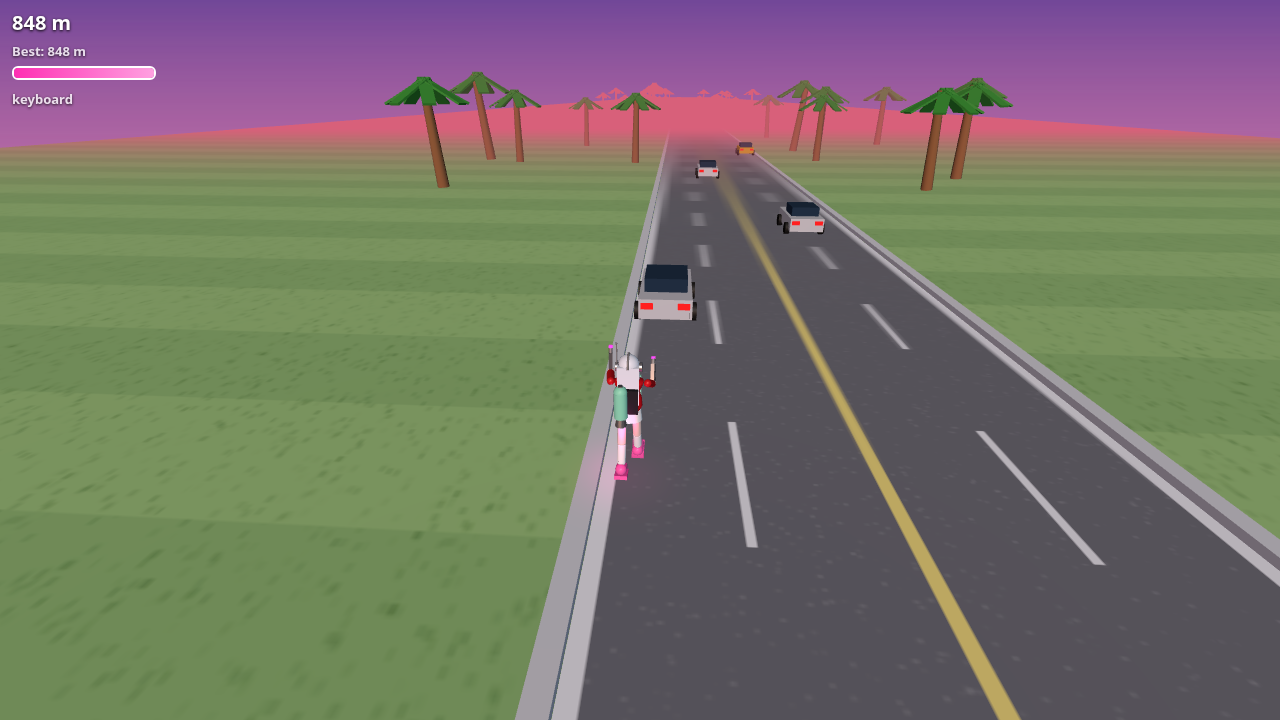
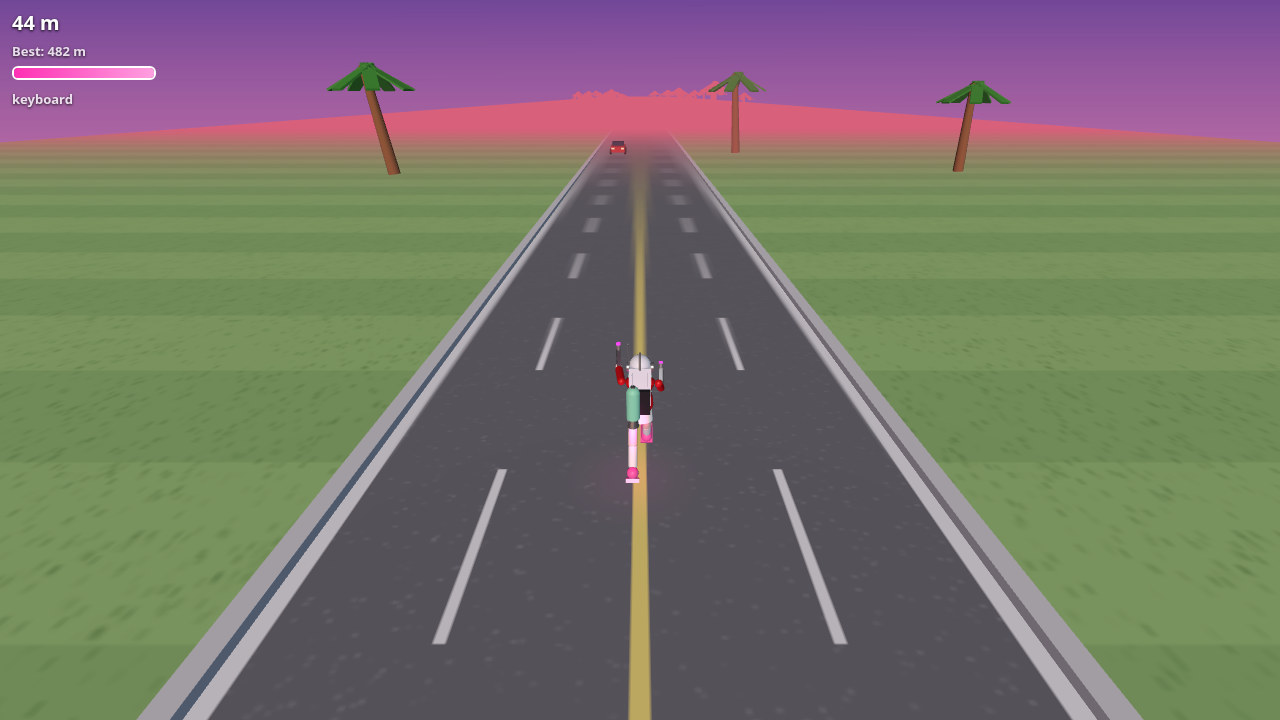
Bigger boost pad (35% jump + surge), +30% speed and obstacles, oncoming freeway traffic, live portal previews, big exit portals for every zone

diff --git a/index.html b/index.html
@@ -26,7 +26,7 @@ canvas{display:block;touch-action:none}
 <div id="over"><h1>Game Over</h1><div id="final"></div><button id="restart">Restart</button><small style="margin-top:8px;opacity:.7">Space / tap to restart</small></div>
 <script type="module">
 import * as THREE from 'three';
-const R=14, BASE=14.4, RAMP=0.5, RAMP_T=10, CAP=200, TURN_RATE=18/R /* ~74deg/s, 18 m/s surface (was 16) */, HOP_H=1.6, THRUST=36, VY_MAX=7.5, FUEL_TIME=1.6, FUEL_REFILL=0.7, MAX_ALT=9, JUMP_H=HOP_H, G=18,
+const R=14, BASE=18.72, RAMP=0.5, RAMP_T=10, CAP=200, TURN_RATE=18/R /* ~74deg/s, 18 m/s surface (was 16) */, HOP_H=1.6, THRUST=36, VY_MAX=7.5, FUEL_TIME=1.6, FUEL_REFILL=0.7, MAX_ALT=9, JUMP_H=HOP_H, G=18,
   V0=Math.sqrt(2*G*JUMP_H), COYOTE=0.12, BUFFER=0.1, CAM_D=10.5, CAM_H=8.5, CAM_FOLLOW=4.5;
 const renderer=new THREE.WebGLRenderer({antialias:true});
 renderer.setPixelRatio(Math.min(devicePixelRatio,2));renderer.setSize(innerWidth,innerHeight);
@@ -142,9 +142,9 @@ document.addEventListener('touchmove',e=>e.preventDefault(),{passive:false});
 document.addEventListener('gesturestart',e=>e.preventDefault());
 document.getElementById('restart').addEventListener('click',()=>reset());
 addEventListener('resize',()=>{camera.aspect=innerWidth/innerHeight;camera.updateProjectionMatrix();renderer.setSize(innerWidth,innerHeight);});
-function spawn(th,ay){const car=st.realm==='freeway';const m=car?makeCar():st.realm==='neon'?new THREE.Mesh(obsGeo,holoMats[Math.random()*2|0]):new THREE.Mesh(obsGeo,obsMat);const o={mesh:m,kind:car?'car':'barrier',theta:th??Math.random()*Math.PI*2,ay:ay??SPAWN_AY(),h:st.rails?RAIL_H:0};if(!car)m.add(new THREE.LineSegments(obsEdges,outlineMat));if(st.flat){o.lx=th==null?LANES[Math.random()*4|0]:Math.max(-FLAT_X,Math.min(FLAT_X,th*R));o.theta=0;}
+function spawn(th,ay){const car=st.realm==='freeway';const m=car?makeCar():st.realm==='neon'?new THREE.Mesh(obsGeo,holoMats[Math.random()*2|0]):new THREE.Mesh(obsGeo,obsMat);const o={mesh:m,kind:car?'car':'barrier',theta:th??Math.random()*Math.PI*2,ay:ay??SPAWN_AY(),h:st.rails?RAIL_H:0};if(!car)m.add(new THREE.LineSegments(obsEdges,outlineMat));if(st.flat){o.v=8+Math.random()*6;if(ay==null)o.ay=SPAWN_AY()*(1+o.v/st.speed);o.lx=th==null?LANES[Math.random()*4|0]:Math.max(-FLAT_X,Math.min(FLAT_X,th*R));o.theta=0;}
  scene.add(m);obstacles.push(o);placeObs(o);return st.flat?o.lx/R:o.theta;}
-function placeObs(o){if(o.lx!==undefined){o.mesh.position.set(o.lx,o.ay,R);o.mesh.rotation.set(0,0,0);return;}const r=(o.kind==='car'?R:R+OBS_HALF.r)+(o.h||0);o.mesh.position.set(Math.sin(o.theta)*r,o.ay,Math.cos(o.theta)*r);o.mesh.rotation.set(0,o.theta,0);}
+function placeObs(o){if(o.lx!==undefined){o.mesh.position.set(o.lx,o.ay,R);o.mesh.rotation.set(0,0,Math.PI);return;}const r=(o.kind==='car'?R:R+OBS_HALF.r)+(o.h||0);o.mesh.position.set(Math.sin(o.theta)*r,o.ay,Math.cos(o.theta)*r);o.mesh.rotation.set(0,o.theta,0);}
 function angDiff(a,b){let d=a-b;d=Math.atan2(Math.sin(d),Math.cos(d));return d;}
 function collide(o){if(o.kind==='car'){return (o.lx!==undefined?Math.abs(o.lx-st.lx):Math.abs(angDiff(o.theta,st.theta))*R)<VIC_HALF.x+CAR.w/2&&Math.abs(o.ay)<VIC_HALF.z+CAR.l/2&&st.y<CAR.h;}
  if(!st.grounded||st.side!=='out')return false; // spec: collision only while not airborne
@@ -155,7 +155,7 @@ function gameOver(by){st.over=true;st.killedBy=by||'barrier';const m=Math.floor(
 
 // ---------- Boost pad ----------
 const surf=(th,h,ay,v=new THREE.Vector3())=>v.set(Math.sin(th)*(R+h),ay,Math.cos(th)*(R+h));
-const BOOST_T=30, PAD_W=3.2, PAD_L=6; // 30s = 20% of the 150s ramp
+const BOOST_T=52.5, BOOST_FX=4, PAD_W=4, PAD_L=15; // 52.5s = 35% of the 150s ramp, plus a 4s decaying surge
 const padTex=(()=>{const c=document.createElement('canvas');c.width=128;c.height=256;const x=c.getContext('2d');x.fillStyle='#062a33';x.fillRect(0,0,128,256);
  x.strokeStyle='#3ff';x.lineWidth=8;x.strokeRect(4,4,120,248);x.fillStyle='#7ff';for(let i=0;i<3;i++){const y=40+i*70;x.beginPath();x.moveTo(20,y+40);x.lineTo(64,y);x.lineTo(108,y+40);x.lineTo(108,y+60);x.lineTo(64,y+20);x.lineTo(20,y+60);x.closePath();x.fill();}
  const t=new THREE.CanvasTexture(c);return t;})();
@@ -163,8 +163,8 @@ pad=new THREE.Mesh(new THREE.PlaneGeometry(PAD_W,PAD_L),new THREE.MeshBasicMater
 const padLight=new THREE.PointLight(0x33ffff,8,8);pad.add(padLight);padLight.position.set(0,0,1);
 function placePad(){surf(0,0.07,st.padAy,pad.position);pad.rotation.set(0,0,0);pad.rotation.y=0;pad.rotation.x=0;pad.rotation.order='YXZ';pad.rotation.set(0,0,Math.PI);}
 function updatePad(dt){if(st.padDone)return;st.padAy+=st.speed*dt;placePad();pad.material.opacity=0.75+0.25*Math.sin(st.t*12);
- if(Math.abs(st.padAy)<PAD_L/2+0.3&&st.grounded&&Math.abs(angDiff(0,st.theta))*R<PAD_W/2+0.4){st.padDone=true;st.boosted=true;st.boost=BOOST_T;pad.visible=false;
-  flash();burst(surf(0,.5,0));const w=document.getElementById('warn');w.textContent='⚡ BOOST!';w.style.color='#5ff';w.style.display='block';setTimeout(()=>{w.textContent='☄ METEOR';w.style.color='#ff5040';},900);}
+ if(Math.abs(st.padAy)<PAD_L/2+0.3&&st.grounded&&Math.abs(angDiff(0,st.theta))*R<PAD_W/2+0.4){st.padDone=true;st.boosted=true;st.boost=BOOST_T;st.boostFx=BOOST_FX;pad.visible=false;
+  flash();burst(surf(0,.5,0));const w=document.getElementById('warn');w.textContent='⚡ BOOST!';w.style.color='#5ff';w.style.display='block';setTimeout(()=>{w.style.display='none';w.textContent='☄ METEOR';w.style.color='#ff5040';},2200);}
  else if(st.padAy>PAD_L){st.padDone=true;pad.visible=false;}}
 placePad();
 
@@ -298,10 +298,33 @@ function applyTheme(n){const T=THEMES[n];const off=tubeMat.map.offset.y;tubeMat.
  scene.background=T.bg;scene.fog.color.set(T.fog);hemi.intensity=T.hemi;sun.color.set(T.sun);dimSunM.visible=n==='normal';for(const k in deco)deco[k].visible=k===n;renderer.domElement.style.filter='';}
 const holoMats=[0x22e6ff,0xff2bd6].map(c=>new THREE.MeshStandardMaterial({color:c,emissive:c,emissiveIntensity:1.4,transparent:true,opacity:.6,depthWrite:false}));
 const CAR={w:2.2,l:4.2,h:1.45};const carGeo={body:new THREE.BoxGeometry(CAR.w,CAR.l,0.85),cab:new THREE.BoxGeometry(1.8,2,0.6),wh:new THREE.CylinderGeometry(0.4,0.4,0.3,10),lt:new THREE.BoxGeometry(0.5,0.1,0.25)};
-const carCols=[0xe23b3b,0x2f7de1,0xf2f2f2,0xf5c32c,0x29b36b,0x222222].map(c=>M(c,{roughness:.3,metalness:.4})),glassM=M(0x223344,{roughness:.1}),tireM=M(0x111111),tailM=new THREE.MeshBasicMaterial({color:0xff2020}),headM=new THREE.MeshBasicMaterial({color:0xfff6c0});
+const carCols=[0xe23b3b,0x2f7de1,0xf2f2f2,0xf5c32c,0x29b36b,0x222222].map(c=>M(c,{roughness:.3,metalness:.4})),glassM=M(0x223344,{roughness:.1}),tireM=M(0x111111),tailM=new THREE.MeshBasicMaterial({color:0xff2020}),headM=new THREE.MeshBasicMaterial({color:0xfff6c0}),beamM=new THREE.MeshBasicMaterial({color:0xfff2b0,transparent:true,opacity:.22,blending:THREE.AdditiveBlending,depthWrite:false,fog:false}),beamG=new THREE.ConeGeometry(0.9,5,12,1,true);
 function makeCar(){const g=new THREE.Group();const b=new THREE.Mesh(carGeo.body,carCols[Math.random()*carCols.length|0]);b.position.z=0.75;g.add(b);const c=new THREE.Mesh(carGeo.cab,glassM);c.position.set(0,0.2,1.45);g.add(c);
  for(const x of[-1.15,1.15])for(const y of[-1.3,1.3]){const w=new THREE.Mesh(carGeo.wh,tireM);w.rotation.z=Math.PI/2;w.position.set(x,y,0.4);g.add(w);}
- for(const x of[-.75,.75]){const t=new THREE.Mesh(carGeo.lt,tailM);t.position.set(x,CAR.l/2+0.02,0.9);g.add(t);const h=new THREE.Mesh(carGeo.lt,headM);h.position.set(x,-CAR.l/2-0.02,0.9);g.add(h);}return g;}
+ for(const x of[-.75,.75]){const t=new THREE.Mesh(carGeo.lt,tailM);t.position.set(x,CAR.l/2+0.02,0.9);g.add(t);const h=new THREE.Mesh(carGeo.lt,headM);h.position.set(x,-CAR.l/2-0.02,0.9);g.add(h);const bm=new THREE.Mesh(beamG,beamM);bm.position.set(x,-CAR.l/2-2.5,0.8);g.add(bm);}return g;}
+// ---- portal previews: animated window into each zone ----
+const PK={sunlit:0,neon:1,glitch:2,freeway:3,route:4};
+function previewMat(k,ring){return new THREE.ShaderMaterial({uniforms:{uT:{value:0},uK:{value:k},uR:{value:ring?1:0}},transparent:true,depthWrite:false,side:THREE.DoubleSide,
+ vertexShader:'varying vec2 vU;varying vec3 vP;void main(){vU=uv;vP=position;gl_Position=projectionMatrix*modelViewMatrix*vec4(position,1.0);}',
+ fragmentShader:`uniform float uT;uniform int uK;uniform float uR;varying vec2 vU;varying vec3 vP;
+ float h1(vec2 p){return fract(sin(dot(p,vec2(12.9898,78.233)))*43758.5453);}
+ vec3 hue(float h){return clamp(abs(mod(h*6.0+vec3(0,4,2),6.0)-3.0)-1.0,0.0,1.0);}
+ void main(){vec2 p=vU*2.0-1.0;if(uR>0.5){float a=atan(vP.y,vP.x);p=vec2(fract(a*1.6)*2.0-1.0,(length(vP.xy)-${(R+2.3).toFixed(2)})/2.2);}
+  vec3 c;float r=length(p);
+  if(uK==0){c=mix(vec3(1.0,.5,.25),vec3(1.0,.88,.55),clamp(p.y*.6+.5,0.,1.));float s=length(p-vec2(0.,.25));c+=0.12*sin(atan(p.y-.25,p.x)*14.+uT*2.)*smoothstep(.9,.3,s);c=mix(vec3(1.,1.,.85),c,smoothstep(.2,.24,s));
+   if(p.y<-.1){float z=.3/(-p.y+.05);c=mix(vec3(.95,.72,.35),vec3(.75,.5,.2),step(.5,fract(z+uT*1.5)))*(.7+.3*(-p.y));}}
+  else if(uK==1){c=mix(vec3(.25,0.,.35),vec3(.03,0.,.08),clamp(p.y,0.,1.));if(p.y<.05){float z=.35/(.08-p.y);float gx=abs(fract(p.x*z*1.5)-.5),gz=abs(fract(z-uT*2.)-.5);
+   c+=vec3(1.,.2,.85)*smoothstep(.44,.5,gx)+vec3(.15,.9,1.)*smoothstep(.42,.5,gz);}
+   for(int i=-1;i<=1;i++){float x=float(i)*(.2+(-p.y)*.6);c+=vec3(.5,1.,1.)*smoothstep(.02,0.,abs(p.x-x))*step(p.y,.05);}}
+  else if(uK==2){float a=atan(p.y,p.x);float s=sin(a*7.+log(r+.001)*16.+uT*9.);c=hue(fract(log(r+.001)*.6+uT*.15))*(smoothstep(-.2,.2,s)*.8+.2);}
+  else if(uK==3){c=mix(vec3(1.,.45,.3),vec3(.55,.25,.6),clamp(p.y*1.4,0.,1.));c=mix(vec3(1.,.85,.4),c,smoothstep(.16,.2,length(p-vec2(0.,.2))));
+   if(p.y<0.){c=vec3(.3,.6,.2);float w=.06+(-p.y)*.75;if(abs(p.x)<w){c=vec3(.18);float z=.25/(-p.y+.03);if(abs(p.x)<.006+(-p.y)*.02&&fract(z+uT*2.5)<.5)c=vec3(1.,.85,.2);}}
+   for(int i=0;i<4;i++){float fi=float(i);for(int sgn=0;sgn<2;sgn++){float x=(sgn==0?-1.:1.)*(.45+fi*.14);float yb=-.05-fi*.08;
+    if(abs(p.x-x)<.012&&p.y>yb&&p.y<yb+.4)c=vec3(.15,.06,.1);if(length((p-vec2(x,yb+.42))*vec2(1.,2.2))<.09)c=vec3(.1,.25,.08);}}}
+  else{float a=atan(p.y,p.x);float cell=floor(a*12.);float lr=log(r+.001)*3.+uT*2.;c=vec3(.03,.03,.12)+vec3(.7,.8,1.)*step(.9,h1(vec2(cell,floor(lr))))*fract(lr)*r;
+   if(p.y<0.&&abs(p.x)<.08+(-p.y)*.55)c=mix(vec3(.45,.2,.55),vec3(.2,.15,.35),step(.5,fract(.3/(-p.y+.05)+uT*2.)));}
+  float al=uR>0.5?.9:smoothstep(1.,.93,r);gl_FragColor=vec4(c,al);}`});}
+
 const ZONES={sunlit:{name:'SUNLIT PAST',sub:'Vic remembers where the route began…',col:0xffd25a,css:'#ffd25a',dur:Infinity},
  neon:{name:'NEON UNDERGROUND',sub:'The route dives beneath the city.',col:0xff2bd6,css:'#ff4fe0',dur:12},
  glitch:{name:'GLITCH ZONE',sub:'Something is rewriting the route…',col:0x39ff88,css:'#39ff88',dur:5},
@@ -313,16 +336,20 @@ function pickRealm(){const d=st.dist;const w=d<1500?{sunlit:.45,freeway:.45,neon
 function spawnPortal(zone,ay,theta){zone=zone||pickRealm();if(ay===undefined)ay=SPAWN_AY()-st.speed*1.5;if(theta===undefined)theta=st.theta+(Math.random()-.5)*1.2;const Z=ZONES[zone];
  const grp=new THREE.Group(),inner=new THREE.Group();grp.add(inner);
  inner.add(new THREE.Mesh(new THREE.TorusGeometry(PR,0.42,12,48),new THREE.MeshBasicMaterial({color:Z.col,fog:false})));
- const disc=new THREE.Mesh(new THREE.CircleGeometry(PR-0.3,40),new THREE.MeshBasicMaterial({color:Z.col,transparent:true,opacity:.35,side:THREE.DoubleSide,blending:THREE.AdditiveBlending,depthWrite:false,fog:false}));inner.add(disc);
+ const disc=new THREE.Mesh(new THREE.CircleGeometry(PR-0.3,40),previewMat(PK[zone]));inner.add(disc);
  const lab=labelSprite(Z.name,Z.css);lab.position.set(0,PR+1.8,0);inner.add(lab);const lt=new THREE.PointLight(Z.col,40,30);inner.add(lt);
  const n=new THREE.Vector3(Math.sin(theta),0,Math.cos(theta)),t=new THREE.Vector3(Math.cos(theta),0,-Math.sin(theta));grp.quaternion.setFromRotationMatrix(new THREE.Matrix4().makeBasis(t,n,new THREE.Vector3(0,-1,0)));
  const p={zone,ay,theta,grp,disc,inner,prev:ay};scene.add(grp);portals.push(p);placePortal(p);return p;}
-function spawnExitPortal(){const gc=st.theta+Math.PI,ay=-Math.max(45,st.speed*1.6),grp=new THREE.Group();
- const gm=new THREE.MeshBasicMaterial({color:0xffd25a,fog:false}),glm=new THREE.MeshBasicMaterial({color:0xfff0a0,transparent:true,opacity:.45,side:THREE.DoubleSide,blending:THREE.AdditiveBlending,depthWrite:false,fog:false});
+function spawnExitPortal(){if(st.flat)return spawnFlatExit();const gc=st.theta+Math.PI,ay=-Math.max(45,st.speed*1.6),grp=new THREE.Group();
+ const gm=new THREE.MeshBasicMaterial({color:0xffd25a,fog:false}),glm=previewMat(4,1);
  const to=new THREE.Mesh(new THREE.TorusGeometry(R+4.6,0.8,12,140,EXIT_ARC),gm),gl=new THREE.Mesh(new THREE.RingGeometry(R+0.15,R+4.4,140,1,0,EXIT_ARC),glm);
  for(const m of[to,gl]){m.rotation.x=Math.PI/2;grp.add(m);}const thg=Math.PI/2-(EXIT_ARC+(Math.PI*2-EXIT_ARC)/2);grp.rotation.y=gc-thg;
  const lab=labelSprite('EXIT → THE ROUTE','#fff2b0');lab.scale.set(16,2,1);scene.add(grp);const p={zone:'route',exit:true,ay,theta:gc,gc,grp,disc:gl,prev:ay,lab};scene.add(lab);portals.push(p);placePortal(p);return p;}
-function placePortal(p){if(p.exit){p.grp.position.y=p.ay;surf(st.theta,9,p.ay,p.lab.position);}else{surf(p.theta,PR,p.ay,p.grp.position);p.inner.rotation.z=st.t*0.8;}p.disc.material.opacity=0.28+0.18*Math.sin(st.t*6);}
+function spawnFlatExit(){const ay=-Math.max(45,st.speed*1.6),grp=new THREE.Group(),AR=RW+2.5;
+ const to=new THREE.Mesh(new THREE.TorusGeometry(AR,0.8,12,80,Math.PI),new THREE.MeshBasicMaterial({color:0xffd25a,fog:false})),d=new THREE.Mesh(new THREE.CircleGeometry(AR-0.2,64,0,Math.PI),previewMat(4));
+ for(const m of[to,d]){m.rotation.x=Math.PI/2;grp.add(m);}const lab=labelSprite('EXIT → THE ROUTE','#fff2b0');lab.scale.set(16,2,1);scene.add(grp);scene.add(lab);
+ const p={zone:'route',exit:true,flat:true,ay,theta:0,gc:0,grp,disc:d,prev:ay,lab};portals.push(p);placePortal(p);return p;}
+function placePortal(p){if(p.exit&&p.flat){p.grp.position.set(0,p.ay,R);p.lab.position.set(0,p.ay,R+RW+4.5);}else if(p.exit){p.grp.position.y=p.ay;surf(st.theta,9,p.ay,p.lab.position);}else{surf(p.theta,PR,p.ay,p.grp.position);p.inner.children[0].rotation.z=st.t*0.8;}if(p.disc.material.uniforms)p.disc.material.uniforms.uT.value=st.t;else p.disc.material.opacity=0.28+0.18*Math.sin(st.t*6);}
 function clearPortals(){for(const p of portals){scene.remove(p.grp);if(p.lab&&p.exit)scene.remove(p.lab);}portals.length=0;}
 function banner(t,sub,css){const b=document.getElementById('banner');document.getElementById('bt').textContent=t;document.getElementById('bt').style.color=css;document.getElementById('bs').textContent=sub;b.style.opacity=1;clearTimeout(banner.h);banner.h=setTimeout(()=>b.style.opacity=0,2400);st.bannerText=t;}
 function clearHaz(){for(const o of obstacles)scene.remove(o.mesh);obstacles.length=0;clearMeteors();clearGaps();clearPortals();}
@@ -338,10 +365,12 @@ function updateRealm(dt,move){updateExtras(dt,move);if(st.over)return;
  if(st.realm==='neon'){const pu=0.55+0.45*Math.sin(st.t*7);deco.neon.userData.ms[0].color.setRGB(pu,0.17*pu,0.84*pu);deco.neon.userData.ms[1].color.setRGB(0.13*(1-pu)+.05,0.9*(1.1-pu),1.1-pu);for(const r of neonRings){r.position.y+=move;if(r.position.y>25)r.position.y-=16*24;}for(const m of holoMats)m.opacity=0.45+0.3*Math.random();}
  if(st.realm==='glitch'){glitchF-=dt;if(glitchF<=0){glitchF=0.06+Math.random()*0.1;renderer.domElement.style.filter=Math.random()<0.55?`invert(1) hue-rotate(${Math.random()*360|0}deg)`:'none';tubeMat.wireframe=Math.random()<0.25;}}
  if(st.realm==='normal'){if(st.padDone)st.portalIn-=dt;if(st.portalIn<=0&&!st.strobe&&!portals.length&&!gaps.length&&!meteors.length&&!craters.length&&st.t>8){spawnPortal();st.portalIn=999;}}
- else{st.realmT+=dt;if(st.realm==='sunlit'){if(!st.exitSpawned&&st.realmT>=4){spawnExitPortal();st.exitSpawned=true;st.exitT=st.realmT;}if(st.missAt>=0&&st.realmT>=st.missAt+3){exitRealm('timeout');return;}}
-  else if(st.realmT>=ZONES[st.realm].dur){exitRealm('end');return;}}
+ else{st.realmT+=dt;const ex=st.realm==='sunlit'?4:ZONES[st.realm].dur-1.6;
+  if(!st.exitSpawned&&st.realmT>=ex){spawnExitPortal();st.exitSpawned=true;st.exitT=st.realmT;st.spawnIn=99;}
+  if(st.missAt>=0&&st.realmT>=st.missAt+3){exitRealm('timeout');return;}
+  if(st.realmT>=ex+10){exitRealm('end');return;}}
  for(let i=portals.length-1;i>=0;i--){const p=portals[i];p.prev=p.ay;p.ay+=move;placePortal(p);
-  if(p.prev<0&&p.ay>=0){if(p.exit){if(Math.abs(angDiff(st.theta,p.gc))>(Math.PI*2-EXIT_ARC)/2+0.05){exitRealm('portal');return;}st.missAt=st.realmT;}
+  if(p.prev<0&&p.ay>=0){if(p.exit){if(p.flat||Math.abs(angDiff(st.theta,p.gc))>(Math.PI*2-EXIT_ARC)/2+0.05){exitRealm('portal');return;}st.missAt=st.realmT;}
    else if(Math.abs(angDiff(p.theta,st.theta))*R<PR-0.3&&st.y<2*PR-0.5){enterRealm(p.zone);return;}else st.portalIn=12;}
   if(p.ay>30){scene.remove(p.grp);if(p.exit)scene.remove(p.lab);portals.splice(i,1);if(!p.exit&&st.realm==='normal'&&st.portalIn>100)st.portalIn=12;}}}
 window.__rr=true;applyTheme('normal');
@@ -416,7 +445,7 @@ let simT=0;function step(dt){st.frames++;simT+=dt;
   const dir=((L?1:0)-(Rt?1:0))*inv;/* +theta = screen-left */
   if(st.rails)railInput(((eL?1:0)-(eR?1:0))*inv,dt);else if(st.flat){if(dir){st.lx=Math.max(-FLAT_X,Math.min(FLAT_X,st.lx+dir*TURN_RATE*R*dt));st.spins++;}}else if(dir){st.theta+=dir*TURN_RATE*dt;st.spins++;}st.lean+=(dir-st.lean)*(1-Math.exp(-10*dt));
   updatePad(dt);const te=st.t+st.boost;st.te=te;
-  st.speed=Math.min(CAP,BASE+0.144*te+0.00048*te*te);st.difficulty=Math.min(1,te/150);st.spawnLo=1.8-1.1*st.difficulty;st.spawnHi=3.2-2.0*st.difficulty;if(st.realm==='neon'){st.spawnLo*=0.85;st.spawnHi*=0.85;st.speed=Math.min(CAP,st.speed*RAIL_BOOST);}if(st.strobe){st.spawnLo*=1.3;st.spawnHi*=1.3;}
+  st.speed=Math.min(CAP,BASE+0.1872*te+0.000624*te*te);st.difficulty=Math.min(1,te/150);st.spawnLo=(1.8-1.1*st.difficulty)/1.3;st.spawnHi=(3.2-2.0*st.difficulty)/1.3;if(st.boostFx>0){st.boostFx-=dt;st.speed=Math.min(CAP,st.speed*(1+0.4*Math.max(0,st.boostFx)/BOOST_FX));}if(st.realm==='neon'){st.spawnLo*=0.85;st.spawnHi*=0.85;st.speed=Math.min(CAP,st.speed*RAIL_BOOST);}if(st.strobe){st.spawnLo*=1.3;st.spawnHi*=1.3;}
   const move=st.speed*dt;st.dist+=move;tubeMat.map.offset.y-=move/300*30;if(flatW.visible){roadTex.offset.y-=move/10;grassTex.offset.y-=move/10;}
   if(st.grounded)st.lastGround=st.t;
   const buffered=st.bufferT>=0&&st.t-st.bufferT<=BUFFER;
@@ -429,7 +458,7 @@ let simT=0;function step(dt){st.frames++;simT+=dt;
   document.getElementById('fuel').style.width=(st.fuel*100).toFixed(1)+'%';
   st.spawnIn-=dt;if(st.realm==='sunlit')st.spawnIn=99;if(st.spawnIn<=0&&portals.some(p=>!p.exit&&p.ay<SPAWN_AY()+20))st.spawnIn=0.2;if(st.spawnIn<=0&&gaps.some(g=>g.near-g.L<SPAWN_AY()+st.speed*0.8))st.spawnIn=0.2;if(st.spawnIn<=0&&st.rails){railRow();st.spawnIn=st.spawnLo+Math.random()*(st.spawnHi-st.spawnLo);}if(st.spawnIn<=0){const th=spawn();if(st.flat&&st.difficulty>0.2&&Math.random()<0.5)spawn();else if(!st.flat&&st.difficulty>0.35&&Math.random()<0.45*st.difficulty)spawn(th+(Math.PI/3+Math.random()*Math.PI*0.8)*(Math.random()<.5?-1:1));st.spawnIn=st.spawnLo+Math.random()*(st.spawnHi-st.spawnLo);}
   updateMeteors(dt,move);if(st.over)return;updateGaps(dt,move);if(st.over)return;updateRealm(dt,move);if(st.over)return;
-  for(let i=obstacles.length-1;i>=0;i--){const o=obstacles[i];o.ay+=move;placeObs(o);
+  for(let i=obstacles.length-1;i>=0;i--){const o=obstacles[i];o.ay+=move+(o.v||0)*dt;placeObs(o);
    if(o.ay>20){scene.remove(o.mesh);obstacles.splice(i,1);continue;}
    if(collide(o)){gameOver(o.kind==='car'?'car':undefined);break;}}
   const ph=st.grounded?Math.sin(st.t*(8+st.speed*0.25)):0;legL.rotation.x=ph*0.7;legR.rotation.x=-ph*0.7;armL.rotation.x=-1.2-ph*0.35;armR.rotation.x=-1.2+ph*0.35;if(!st.grounded){legL.rotation.x=-0.6;legR.rotation.x=0.3;}}
